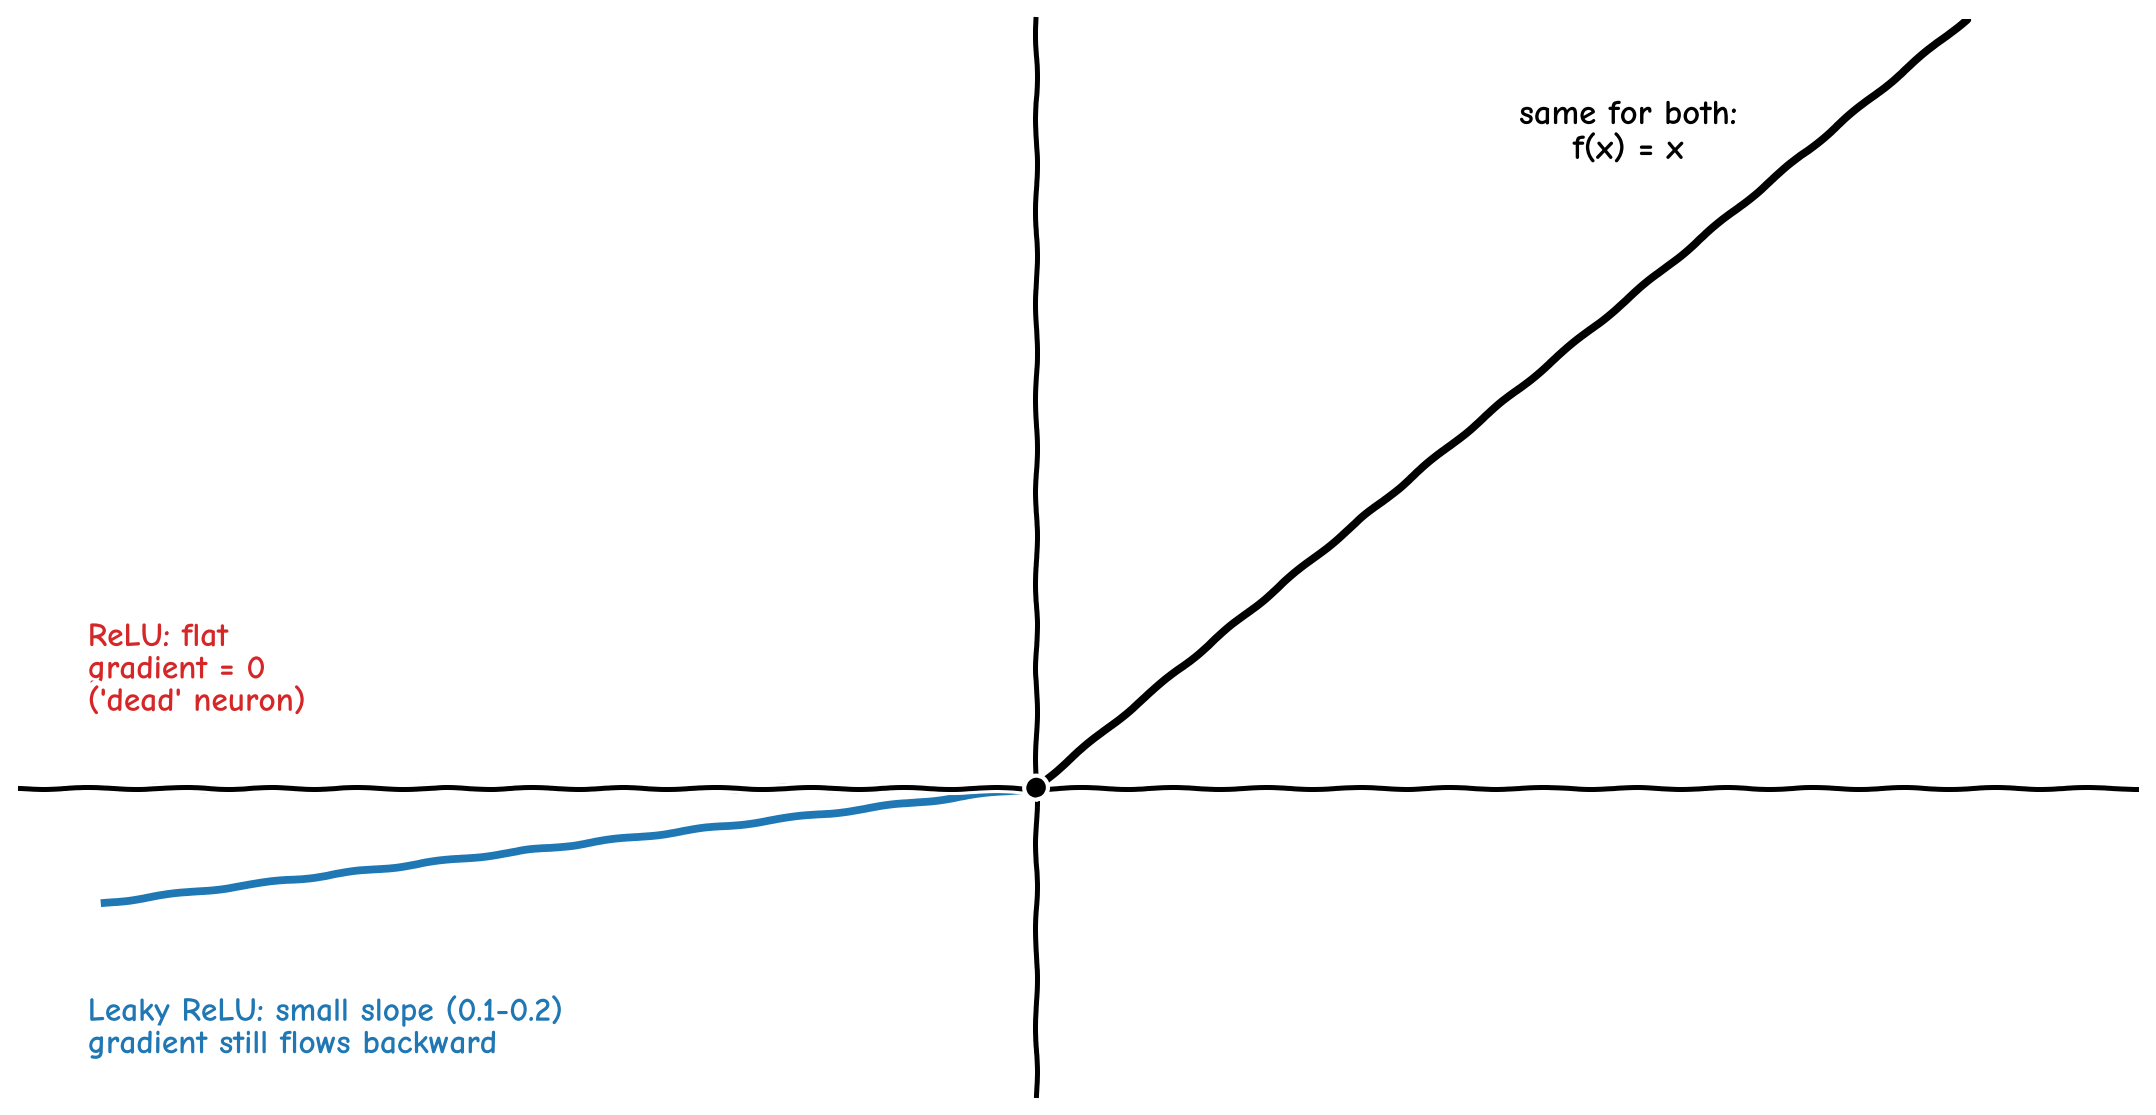
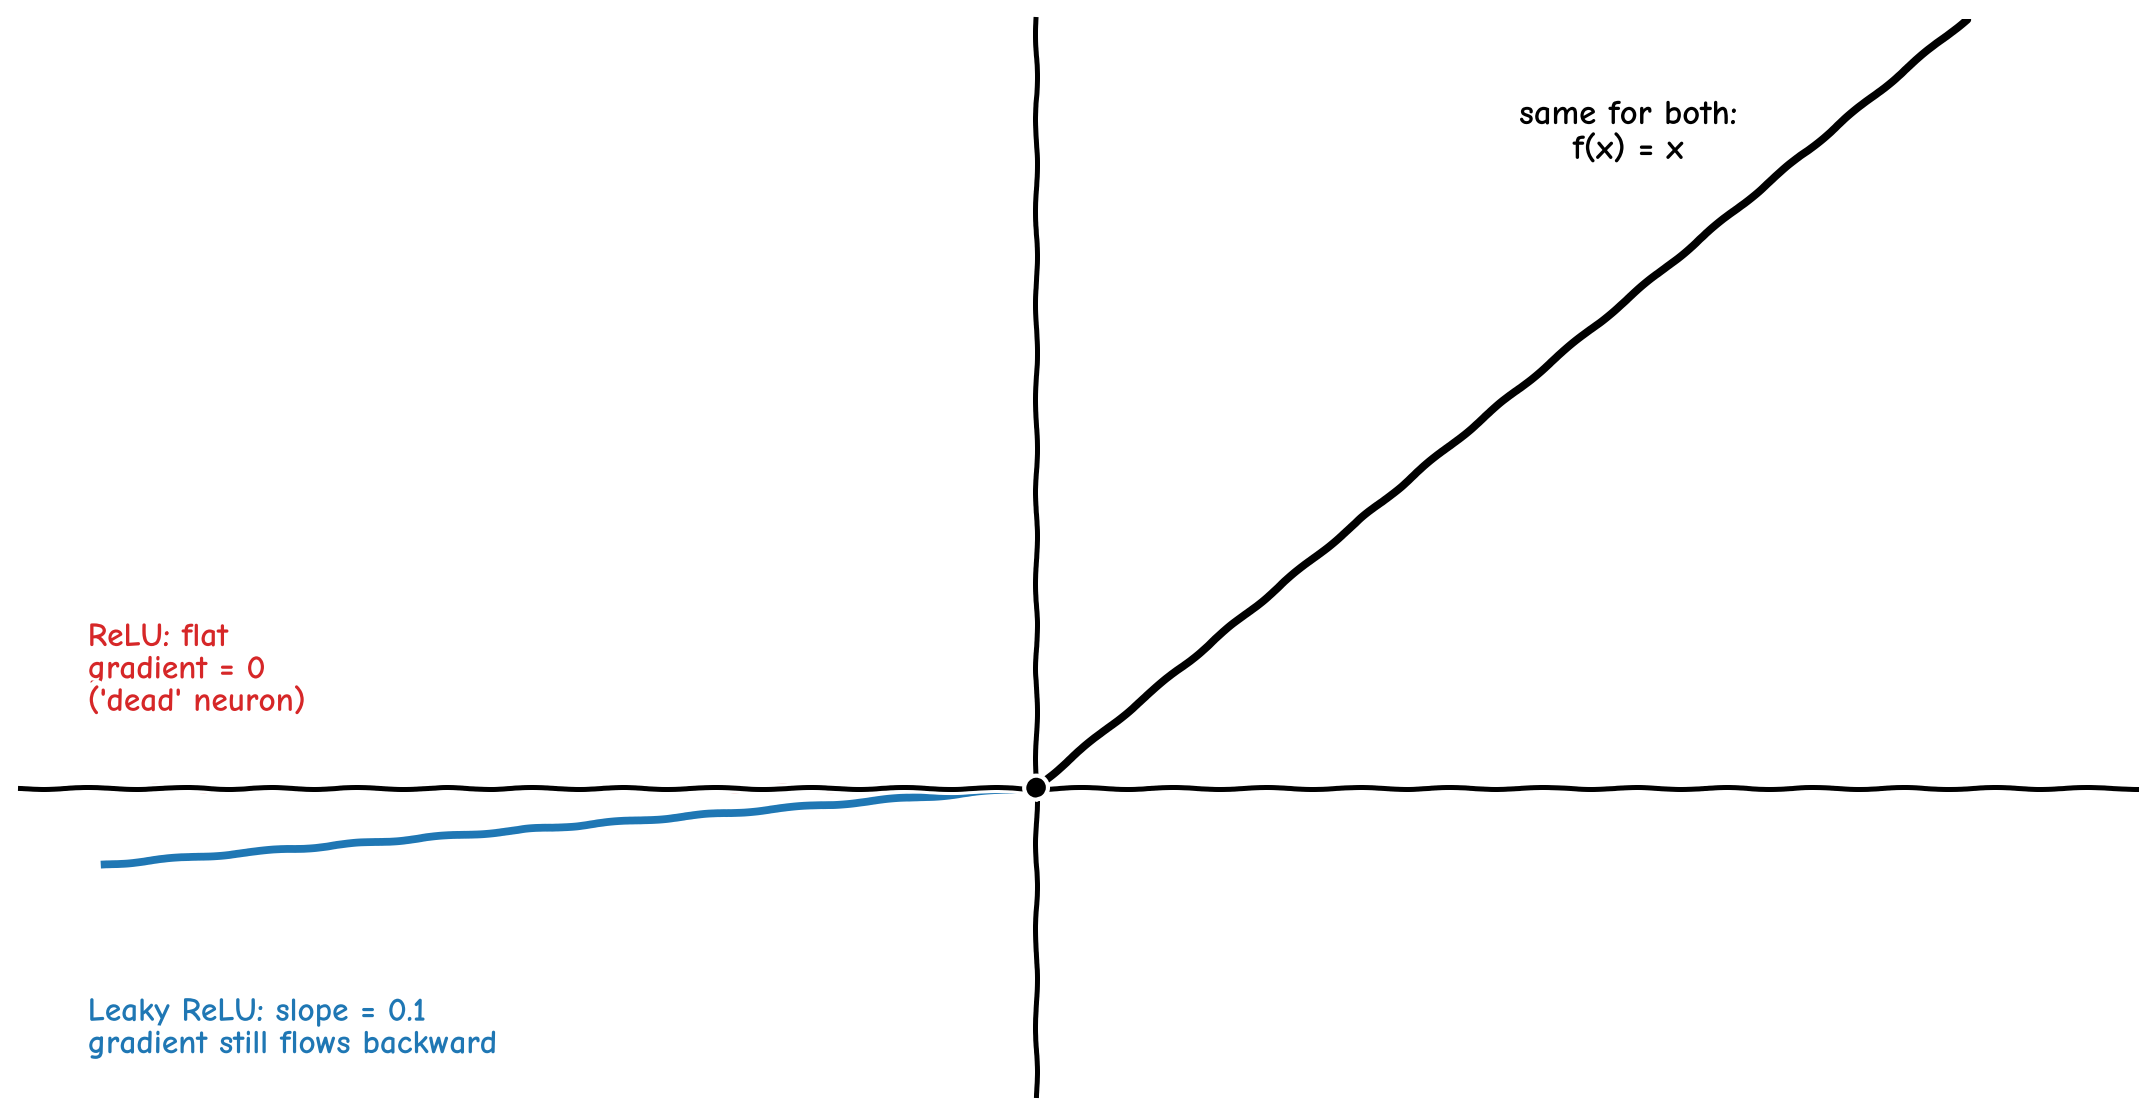
Add images for normalization and activation function sections in "Yolo V1: Inside Out?" blog post

Changed region(s): [[0.0311, 0.7013, 0.4661, 0.8233], [0.1243, 0.8843, 0.2797, 0.9148]]

diff --git a/_posts/2026-08-30-YoloV1.md b/_posts/2026-08-30-YoloV1.md
@@ -8,30 +8,37 @@ read_time: 10
 excerpt: "A walkthrough of how YOLOv1's single-pass grid prediction works, why it struggles with small objects, and the design choices behind its loss function."
 ---
 
-In 2015, Joseph Redmon, Santosh Divvala, Ross Girshick, and Ali Farhadi introduced a novel algorithm for object detection. 
+In 2015, Joseph Redmon, Santosh Divvala, Ross Girshick, and Ali Farhadi introduced a novel algorithm for object detection.
 
-They named it YOLO — You Only Look Once — for a specific reason. Earlier object detection models, like the R-CNN series, were also performing both classification and localization, but not in a single step: they relied on multiple stages (proposing candidate regions, classifying them, then refining the boxes) and multiple passes over the image. 
+They named it YOLO — You Only Look Once — for a specific reason. Earlier object detection models, like the R-CNN series, were also performing both classification and localization, but not in a single step: they relied on multiple stages (proposing candidate regions, classifying them, then refining the boxes) and multiple passes over the image.
 
-YOLO collapsed all of that into a single stage — one pass over the image to do both classification and localization at once.
+YOLO collapsed all of that into a **single stage — one pass over the image** to do both classification and localization at once.
 
 ![Regression problem framing](/images/yolo-v1/1.png)
 
+## Why It Mattered
+
+Because detection happened in a single pass, YOLOv1 was dramatically faster than the region-proposal pipelines that came before it — the base model ran at **45 frames per second**, with a smaller "Fast YOLO" variant reaching **155 fps**, fast enough for real-time video.
+
+Speed wasn't the only benefit. Since YOLO looks at the **entire image at once** rather than scanning through thousands of individually-generated region proposals, it implicitly learns contextual information about a scene — which meant it made noticeably fewer background false positives (mistaking patches of background for objects) compared to methods like Fast R-CNN.
+
+That speed and global context came with trade-offs, though — which the rest of this post digs into.
+
 ## Output Tensor
 
-YOLOv1 outputs a tensor of shape S×S×N, where S is 7 in the paper and N is 30. The authors trained on the [Pascal VOC](https://www.robots.ox.ac.uk/~vgg/projects/pascal/VOC/) dataset, which had 20 unique classes.
+YOLOv1 outputs a tensor of shape **S×S×N**, where S is 7 in the paper and N is 30. The authors trained on the [Pascal VOC](https://www.robots.ox.ac.uk/~vgg/projects/pascal/VOC/) dataset, which had 20 unique classes.
 
-Each grid cell predicts 2 bounding boxes, and each bounding box has 5 values, giving us:
+Each grid cell predicts **2 bounding boxes**, and each bounding box has **5 values**, giving us:
 
-2 × 5 + 20 = 30
+**2 × 5 + 20 = 30**
 
 ![7x7x30 output tensor](/images/yolo-v1/tensor_7x7x30.png)
 
-Each bounding box is represented as [x, y, w, h, p], where x and y are the center coordinates of the box, w and h are its width and height, and p is the confidence score — not simply "objectness," but `Pr(Object) × IOU(pred, truth)`, which captures both whether an object is present and how well the predicted box actually aligns with it.
+Each bounding box is represented as `[x, y, w, h, p]`, where x and y are the center coordinates of the box, w and h are its width and height, and p is the **confidence score** — not simply "objectness," but `Pr(Object) × IOU(pred, truth)`, which captures both whether an object is present and how well the predicted box actually aligns with it.
 
-Each cell can only predict one object's class, which is a real limitation of this approach. If multiple objects' centers happen to fall inside the same grid cell, only one of them can be represented — the other is simply lost. This isn't decided by confidence or IOU; it's an inherent limitation of the grid-based design itself.
+Each cell can only predict **one object's class**, which is a real limitation of this approach. If multiple objects' centers happen to fall inside the same grid cell, only one of them can be represented — the other is simply lost. This isn't decided by confidence or IOU; it's an inherent limitation of the grid-based design itself.
 
-Within a cell, IOU does play a role, but for a different decision: choosing which of the cell's 2 predicted boxes is "responsible" for the assigned object. Once an object is assigned to a cell, its ground-truth box is compared against both predicted boxes, and whichever has the higher IOU becomes responsible for predicting that object during training.
-
+Within a cell, IOU does play a role, but for a different decision: choosing which of the cell's 2 predicted boxes is **"responsible"** for the assigned object. Once an object is assigned to a cell, its ground-truth box is compared against both predicted boxes, and whichever has the **higher IOU becomes responsible** for predicting that object during training.
 
 ## Small Object Limitation
 
@@ -39,14 +46,13 @@ YOLOv1 had one more significant issue: it struggled to localize small objects in
 
 Consider a squirrel sitting on a tree branch. To a human eye, it's clearly visible and easy to identify. But after repeated convolution and pooling operations, the features representing that squirrel get compressed into a very small, coarse signal — making it much harder for the model to localize accurately.
 
-
-So each grid cell effectively summarizes information from a 64 × 64 patch of the original image. A small object like a squirrel might occupy only a tiny fraction of that patch — yet the model has to represent it using the same single cell.
-
 ![Original squirrel photo](/images/yolo-v1/squirrel.jpg)
 
-The authors themselves acknowledged this limitation in the paper. To see why, compare the input and output sizes: the input image is resized to 448 × 448, while the output is a 7 × 7 grid (each cell holding a 30-value tensor, as covered above). For spatial intuition:
+The authors themselves acknowledged this limitation in the paper. To see why, compare the input and output sizes: the input image is resized to **448 × 448**, while the output is a **7 × 7 grid** (each cell holding a 30-value tensor, as covered above). For spatial intuition:
 
-448 / 7 = 64
+**448 / 7 = 64**
+
+So each grid cell effectively summarizes information from a **64 × 64 patch** of the original image. A small object like a squirrel might occupy only a tiny fraction of that patch — yet the model has to represent it using the same single cell.
 
 ![Squirrel photo with 7x7 grid overlay](/images/yolo-v1/squirrel-grid.png)
 
@@ -58,52 +64,62 @@ The grid overlay isn't a literal picture of the tensor — it's there to build i
 
 As covered in the previous section, each grid cell predicts 2 candidate bounding boxes for a single object, not two independent object slots — IOU decides which of the two becomes "responsible" during training.
 
-This raises a natural question: what happens if two different objects — say a cat and a dog — both have their centers inside the same grid cell? YOLOv1 cannot represent both. Each cell holds only one set of class probabilities and one object target, so one of the two is simply left undetected.
+This raises a natural question: what happens if two different objects — say a cat and a dog — both have their centers inside the same grid cell? **YOLOv1 cannot represent both.** Each cell holds only one set of class probabilities and one object target, so one of the two is simply left undetected.
 
 Importantly, which object gets represented isn't decided by confidence or IOU — it's an inherent limitation of the grid-based formulation itself. This is especially problematic when multiple small or closely packed objects share a cell, compounding the small-object issue discussed earlier.
 
-
-
 ## Normalization and Localization Loss
 
-All predicted values are normalized into a range of 0 to 1 — but not all relative to the same thing. The center coordinates (x, y) are normalized as offsets relative to the bounds of their own grid cell, while the width and height (w, h) are normalized relative to the dimensions of the entire image. This matters because it keeps every predicted value on a comparable scale, regardless of where or how large the object is.
+All predicted values are normalized into a range of **0 to 1** — but not all relative to the same thing. The center coordinates (x, y) are normalized as offsets relative to the bounds of their own grid cell, while the width and height (w, h) are normalized relative to the dimensions of the entire image. This matters because it keeps every predicted value on a comparable scale, regardless of where or how large the object is.
 
-Once predicted, these values feed into the localization loss. For the center coordinates, the loss is a straightforward squared error: `(x - x̂)² + (y - ŷ)²`. For width and height, though, the authors used the squared error of the square root of each value instead of the raw value:
+Once predicted, these values feed into the localization loss. For the center coordinates, the loss is a straightforward squared error:
+
+`(x - x̂)² + (y - ŷ)²`
+
+For width and height, though, the authors used the squared error of the **square root** of each value instead of the raw value:
 
 `(√w - √ŵ)² + (√h - ĥ)²`
 
-The reasoning is simple: a small deviation matters more for a small object than for a large one, but plain squared error can't tell the difference. For example:
+![Square vs square root delta comparison](/images/yolo-v1/sqrt_vs_linear.png)
+
+The reasoning: a small deviation matters more for a small object than for a large one, but plain squared error can't tell the difference. For example:
 
 Suppose we have two boxes:
 
-Large box:
+**Large box:**
 - Actual width = 100
 - Predicted width = 110
 - Error = 10
 
-Small box:
+**Small box:**
 - Actual width = 10
 - Predicted width = 20
 - Error = 10
 
-With squared error: 10² = 100 for both — so both get exactly the same loss. But intuitively, they're not equally bad:
-- Large box: 100 → 110 is a 10% error
-- Small box: 10 → 20 is a 100% error
+With squared error: **10² = 100 for both** — so both get exactly the same loss. But intuitively, they're not equally bad:
+- Large box: 100 → 110 is a **10% error**
+- Small box: 10 → 20 is a **100% error**
 
-Sum-squared error treats the same absolute error equally regardless of box size, even though a 10-pixel error is far more significant for a small box than a large one.
+The paper puts it directly:
+
+> "Sum-squared error also equally weights errors in large boxes and small boxes. Our error metric should reflect that small deviations in large boxes matter less than in small boxes. To partially address this we predict the square root of the bounding box width and height instead of the width and height directly."
+> — Redmon et al., 2016
+
+![square-root-vs-linear](/images/yolo-v1/square-root-loss-calc.png)
 
 Taking the square root of w and h before computing the squared error fixes this. The square-root curve is steep for small values and flattens out for large ones, so the same absolute error produces a larger transformed error for small boxes and a smaller one for large boxes — making the loss more sensitive to errors on small objects, and less sensitive to the same absolute error on large ones.
 
-![Square vs square root delta comparison](/images/yolo-v1/sqrt_vs_linear.png)
-
-
 ## Activation Function Choice
 
-YOLOv1 uses Leaky ReLU for most of its convolutional layers. ReLU suppresses negative activations by setting them to zero, which provides a sparse, nonlinear feature representation.
+The paper specifies the activation function precisely, using a piecewise formula (from Redmon et al., 2016):
 
-However, when an activation is negative, ReLU also produces a zero gradient, which can cause a neuron to become permanently inactive and stop receiving useful gradient updates — the "dying ReLU" problem.
+![leaky-relu](/images/yolo-v1/activation-func.png)
 
-Leaky ReLU keeps the useful behavior of ReLU while allowing a small negative value, and more importantly, a small non-zero gradient, to pass through when the input is negative.
+YOLOv1 uses **Leaky ReLU** for most of its convolutional layers. ReLU suppresses negative activations by setting them to zero, which provides a sparse, nonlinear feature representation.
+
+However, when an activation is negative, ReLU also produces a **zero gradient**, which can cause a neuron to become permanently inactive and stop receiving useful gradient updates — the "dying ReLU" problem.
+
+Leaky ReLU keeps the useful behavior of ReLU while allowing a small negative value, and more importantly, a **small non-zero gradient (0.1)**, to pass through when the input is negative.
 
 ![ReLU vs Leaky ReLU](/images/yolo-v1/relu_vs_leaky_relu.png)
 
@@ -115,9 +131,10 @@ This lets neurons keep learning even when their activations are negative — use
 
 YOLOv1's total loss is a sum of coordinate loss, confidence loss, and classification loss, computed per grid cell and combined into a single scalar used for backpropagation.
 
-The grid has S² = 49 cells, and each cell predicts B = 2 bounding boxes. For each box, we compute:
+The grid has **S² = 49 cells**, and each cell predicts **B = 2 bounding boxes**. For each box, we compute:
 
 - **Coordinate loss** — but only for the *responsible* predictor (the box with higher IOU against the ground truth, as covered earlier):
+
   `λ_coord · [(x - x̂)² + (y - ŷ)²]`
   `+ λ_coord · [(√w - √ŵ)² + (√h - ĥ)²]`
 
@@ -127,12 +144,30 @@ The grid has S² = 49 cells, and each cell predicts B = 2 bounding boxes. For ea
 
 This second case is easy to misread — `λ_noobj` doesn't just apply to empty cells. It also downweights the confidence loss for the "losing" box inside a cell that *does* contain an object, since only one of the two boxes gets to be responsible.
 
-`λ_coord = 5` and `λ_noobj = 0.5` exist for a scale problem: the 4 coordinate values are a small fraction of the 30 values per cell, so they need to be upweighted to matter; meanwhile the vast majority of the 49 cells contain no object at all, so their confidence-loss gradients would otherwise dominate training and drown out the (relatively rare) genuine detections.
+The paper explains why this weighting is needed at all:
 
-- **Classification loss** — unlike the two terms above, this is computed once *per cell*, not per box, since both boxes in a cell share the same set of class probabilities:
+> "Also, in every image many grid cells do not contain any object. This pushes the 'confidence' scores of those cells towards zero, often overpowering the gradient from cells that do contain objects. This can lead to model instability, causing training to diverge early on."
+> — Redmon et al., 2016
+
+![empty-cells](/images/yolo-v1/no-obj-issue.png)
+
+The fix:
+
+> "We use two parameters, λcoord and λnoobj to accomplish this. We set λcoord = 5 and λnoobj = .5."
+> — Redmon et al., 2016
+
+![lambda terms](/images/yolo-v1/lambda-terms.png)
+
+**`λ_coord = 5`** and **`λ_noobj = 0.5`** exist for a scale problem: the 4 coordinate values are a small fraction of the 30 values per cell, so they need to be upweighted to matter; meanwhile the vast majority of the 49 cells contain no object at all, so their confidence-loss gradients would otherwise dominate training and drown out the (relatively rare) genuine detections.
+
+- **Classification loss** — unlike the two terms above, this is computed **once per cell**, not per box, since both boxes in a cell share the same set of class probabilities:
+
   `Σ (p_i(c) - p̂_i(c))²` for each class `c`, only for cells that actually contain an object.
 
 Together, these three terms — coordinate, confidence, classification — sum into the total loss. Gradient descent then repeatedly updates the network's weights to reduce this loss, continuing until further updates produce negligible improvement.
+
 ---
 
-> **Next up:** [Backpropagation: How Neural Networks Learn](#) — the chain rule applied to computation graphs.
+This post focused on YOLOv1's core ideas and design trade-offs. Two important pieces — **Non-Max Suppression** (how overlapping predictions get collapsed into a single final detection at inference time) and the **network architecture and training regime** — are intentionally left out here, since they'll be covered hands-on in an upcoming implementation post.
+
+> **Next up:** [YOLO9000: Better, Faster, Stronger: What Changed](#) — Improvements and resolution of the issues observed in YOLOv1.
